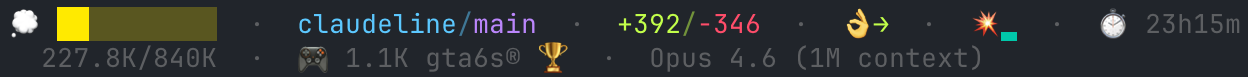
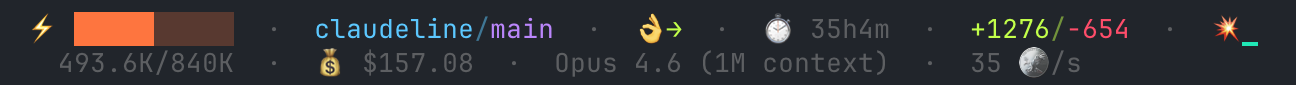
📝 docs(readme): update screenshot + increase display size

Changed region(s): [[0.0, 0.0779, 1.0, 0.961], [0.9375, 0.4935, 0.9688, 0.5455]]

diff --git a/README.md b/README.md
@@ -24,7 +24,7 @@
 ```
 
 <div align="center">
-<img src="docs/assets/claudeline-screenshot.png" alt="claudeline in action" width="700">
+<img src="docs/assets/claudeline-screenshot.png" alt="claudeline in action" width="900">
 </div>
 
 <hr>